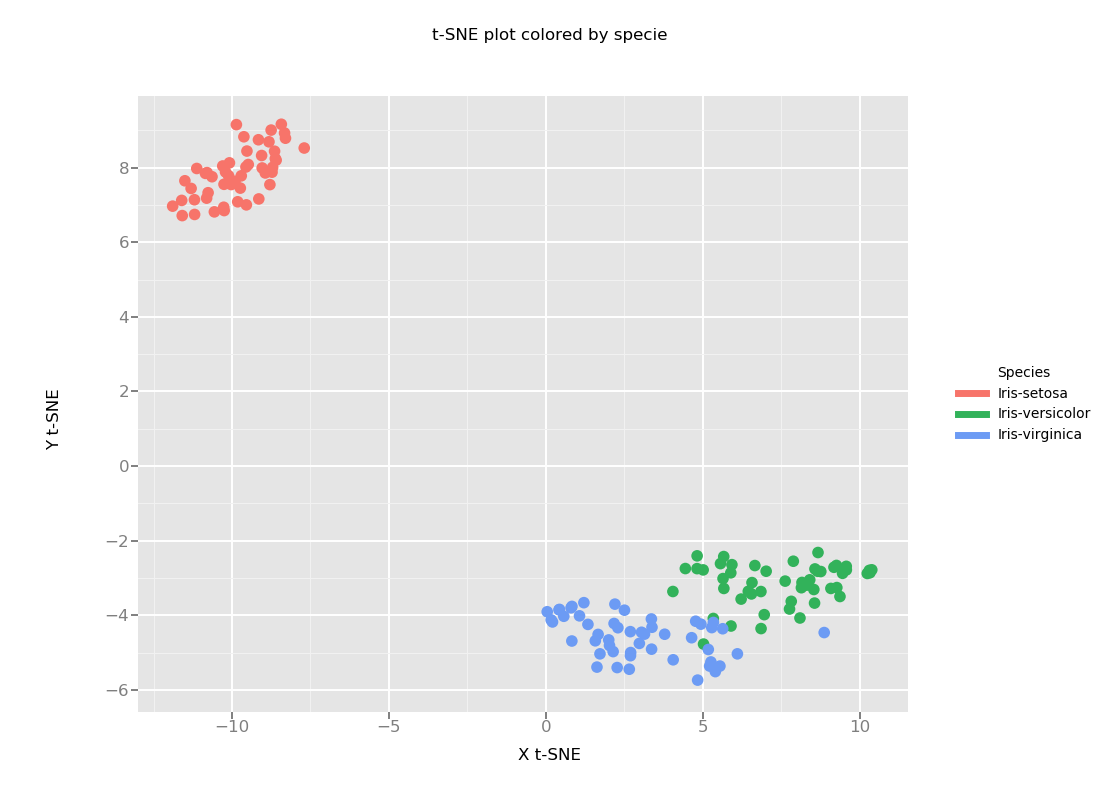
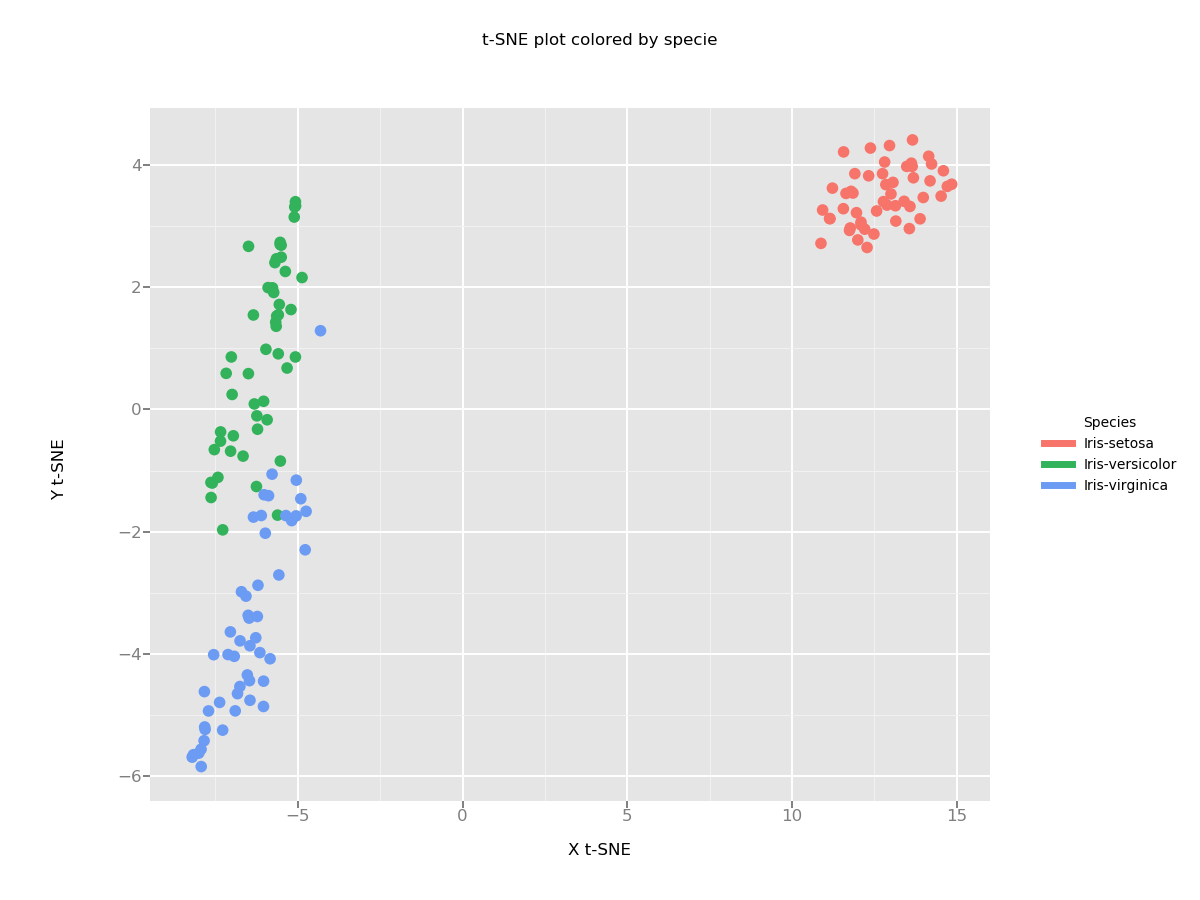
tsne code updated

diff --git a/iris/src/irisTSNE.py b/iris/src/irisTSNE.py
@@ -17,4 +17,4 @@ chart = ggplot( tsne, aes(x='X t-SNE', y='Y t-SNE', color='Species', label='Spec
         + geom_point(size=70) \
         + ggtitle("t-SNE plot colored by specie")
 
-chart.save('../output/tsne/tsneIris.png')
+chart.save('../output/tsne/tsneIris.png', width=12, height=9)
